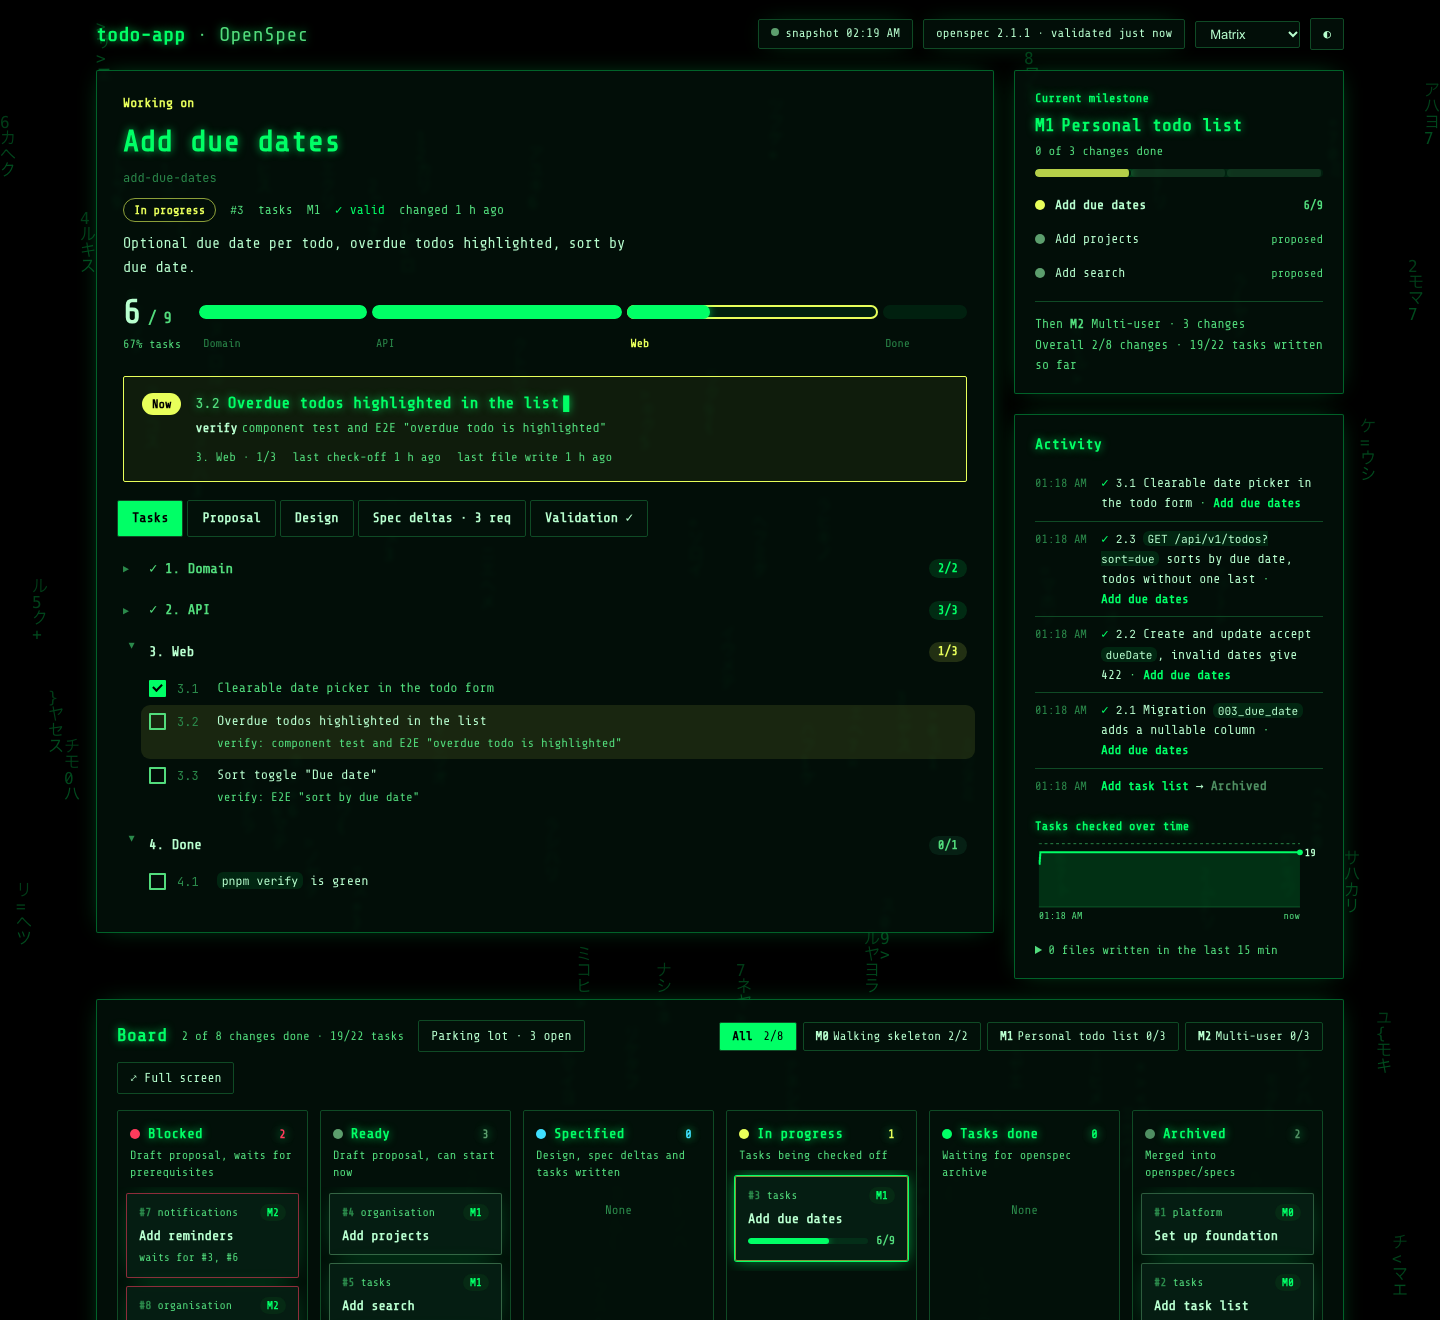
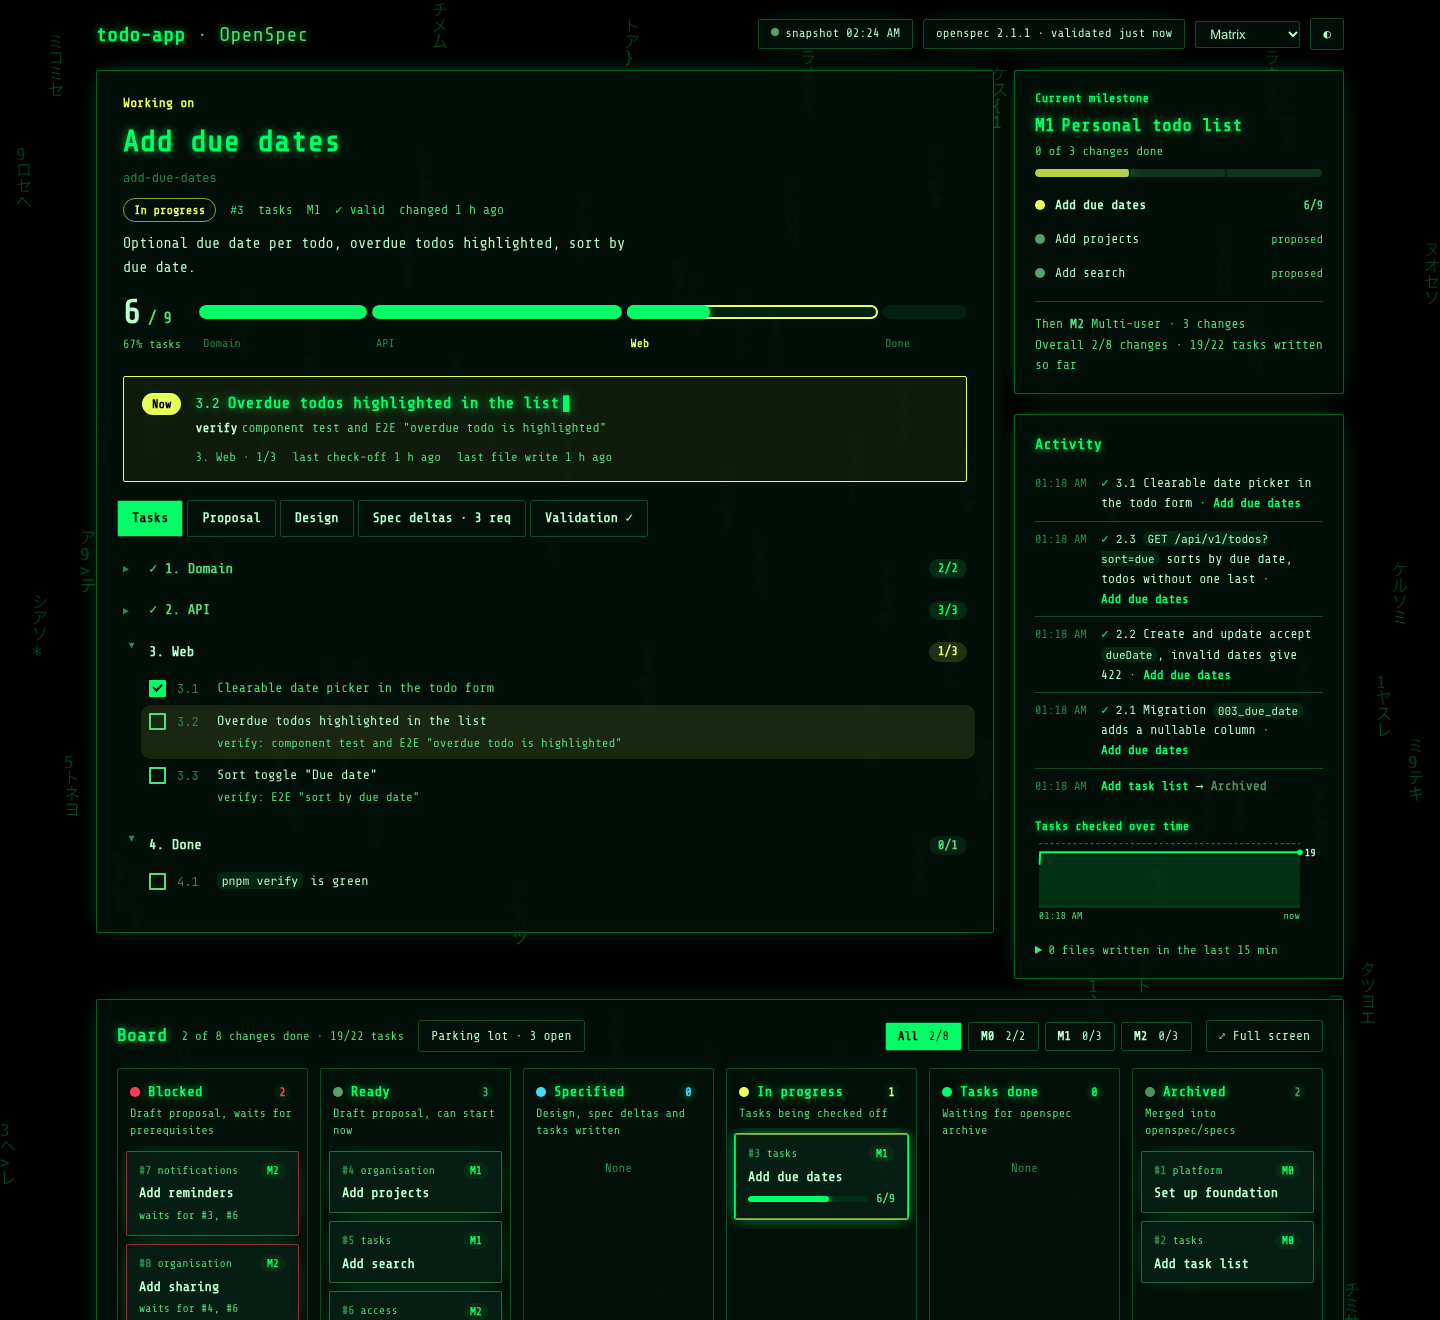
Dashboard: keep the Full screen button on the board header line
- Milestone filters take the free space and wrap inside it; the Full screen button never wraps
- Matrix and Terminal (monospace) show only milestone id and count in the filters; the name
  is in the tooltip
- Matrix and Terminal screenshots updated

diff --git a/tools/openspec-dashboard/index.html b/tools/openspec-dashboard/index.html
@@ -223,7 +223,12 @@ svg text { fill: var(--muted); font-family: var(--font-sans); font-size: 10.5px;
 .kc-flag.muted { color: var(--muted); font-weight: 500; }
 
 /* full-screen board */
-.board-toggle { white-space: nowrap; }
+.board-toggle { white-space: nowrap; flex: none; }
+/* the milestone filters take the free space and wrap inside it, so the Full screen button never drops to a new line */
+.board-head .ms-filter { flex: 1 1 0; min-width: 220px; justify-content: flex-end; }
+/* the monospace styles are wider: milestone filters show only id and count, the name is in the tooltip */
+:root[data-style="matrix"] .ms-filter .ms-name,
+:root[data-style="terminal"] .ms-filter .ms-name { display: none; }
 .board-live { font-size: 12.5px; color: var(--muted); background: var(--surface); box-shadow: var(--shadow); border-radius: 999px; padding: 3px 12px; }
 .board-now { margin: -4px 0 14px; font-size: 13.5px; background: color-mix(in srgb, var(--st-progress) 10%, var(--surface)); border-radius: var(--radius-sm); padding: 9px 14px; display: flex; gap: 4px 10px; flex-wrap: wrap; align-items: baseline; }
 .board-now .k { font-weight: 800; color: var(--st-progress); }
@@ -1429,7 +1434,7 @@ function renderBoard(s) {
     if (ui.prevCol.has(c.name) && ui.prevCol.get(c.name) !== col) moved.add(c.name);
     ui.prevCol.set(c.name, col);
   }
-  const msBtn = (id, label, cs) => `<button type="button" data-ms="${esc(id)}" aria-pressed="${ui.ms === id}">${label} <span class="num">${cs.filter(isDone).length}/${cs.length}</span></button>`;
+  const msBtn = (id, label, cs, name = '') => `<button type="button" data-ms="${esc(id)}" aria-pressed="${ui.ms === id}"${name ? ` title="${esc(id)} ${esc(name)}"` : ''}>${label} <span class="num">${cs.filter(isDone).length}/${cs.length}</span></button>`;
   const card = (c) => {
     const t = c.tasks;
     const flags = [];
@@ -1457,7 +1462,7 @@ function renderBoard(s) {
       ${max ? `<span class="board-live">${$('conn').innerHTML}</span>` : ''}
       <span class="muted num" style="font-size:12.5px">${s.changes.filter(isDone).length} of ${s.changes.filter((c) => c.status !== 'parking').length} changes done · ${s.totals.done}/${s.totals.total} tasks</span>
       ${s.changes.filter((c) => c.status === 'parking').map((c) => `<button type="button" class="btn" data-pick="${esc(c.name)}" title="Parking lot: deferred items, never archived">Parking lot · ${c.tasks ? `${c.tasks.total - c.tasks.done} open` : esc(c.name)}</button>`).join('')}
-      <span class="ms-filter">${msBtn('', '<b>All</b>', s.changes.filter((c) => c.status !== 'parking'))}${s.milestones.map((m) => msBtn(m.id, `<b>${esc(m.id)}</b>${esc(m.title)}`, s.changes.filter((c) => c.milestone === m.id))).join('')}</span>
+      <span class="ms-filter">${msBtn('', '<b>All</b>', s.changes.filter((c) => c.status !== 'parking'))}${s.milestones.map((m) => msBtn(m.id, `<b>${esc(m.id)}</b><span class="ms-name">${esc(m.title)}</span>`, s.changes.filter((c) => c.milestone === m.id), m.title)).join('')}</span>
       <button class="btn board-toggle" type="button" data-max aria-pressed="${max}" title="${max ? 'Back to the dashboard (Esc)' : 'Show the board across the whole window'}">${max ? 'Exit full screen ✕' : '⤢ Full screen'}</button>
     </div>
     ${now}
